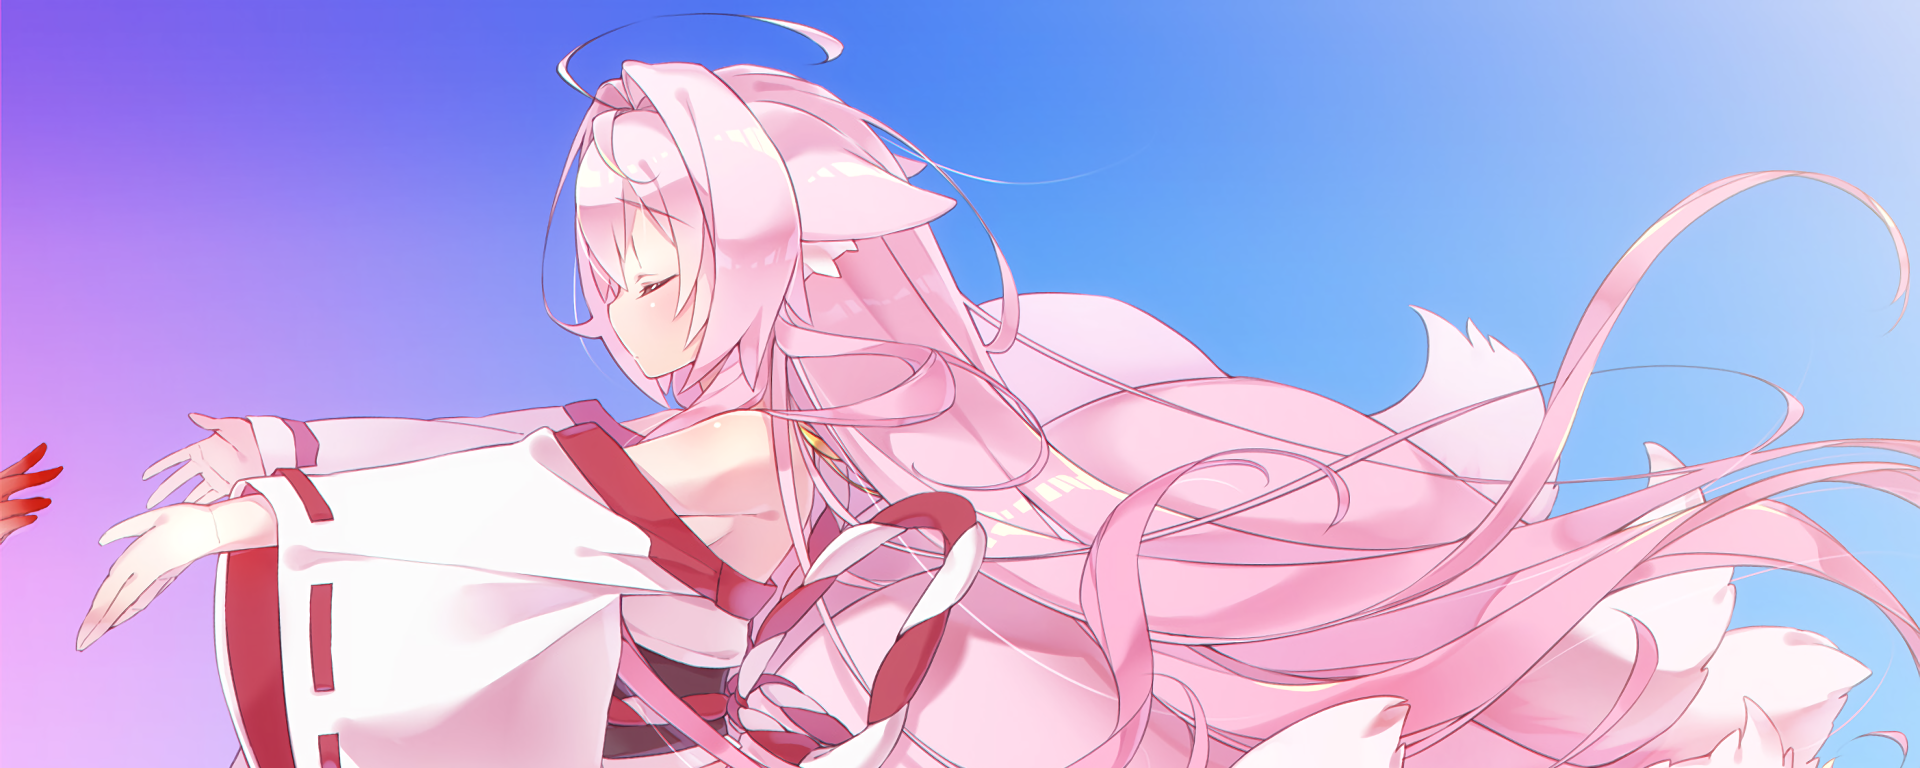
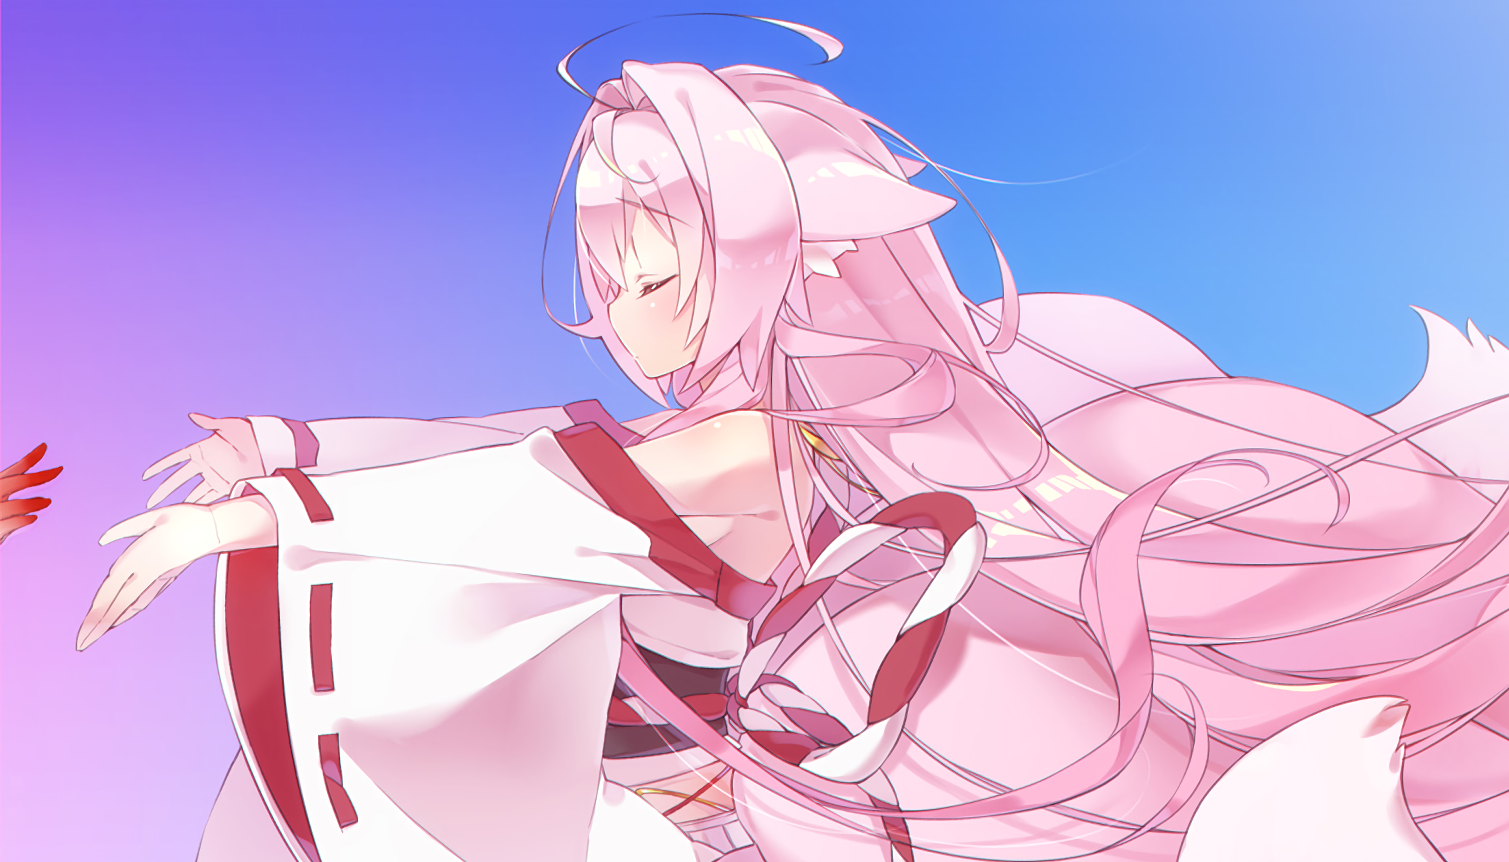
Fix picture size

diff --git a/README.md b/README.md
@@ -20,7 +20,7 @@
 
 ## 🎵 Music 🎵
 
-<img src="music-pic.png" width="30%" align="right">
+<img src="music-pic.png" width="27%" align="right">
 
 <p align="center">I normally listen to music all days since it make me not dead inside or pretend to be dead. And if you want to know more <a href="https://www.last.fm/user/HelloYeew">yes, I'm still using last.fm lmao</a>.</p>
 
